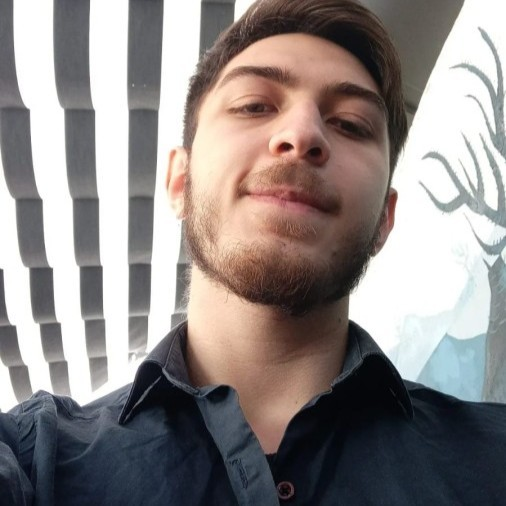
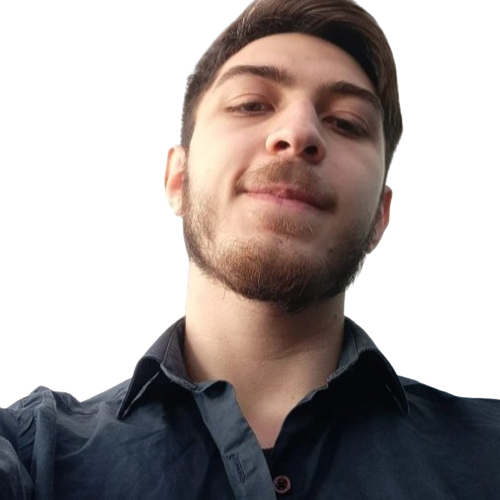
Change profile image 2

diff --git a/index.html b/index.html
@@ -93,7 +93,7 @@
                                 <path
                                     d="M40.6,-56.8C53.8,-46.3,66.4,-36,72.1,-22.5C77.8,-9,76.5,7.7,69.7,20.8C62.9,33.8,50.6,43.3,38,55C25.5,66.6,12.8,80.6,0.1,80.5C-12.6,80.4,-25.2,66.3,-38.8,54.9C-52.4,43.6,-66.9,35,-72.9,22.3C-79,9.6,-76.6,-7.3,-70.7,-22.2C-64.8,-37.1,-55.3,-50.1,-43,-60.9C-30.6,-71.6,-15.3,-80,-0.8,-79C13.7,-77.9,27.4,-67.3,40.6,-56.8Z"
                                     transform="translate(100 100)" />
-                                <image class="home__blob-img" x="15" y="30" href="./assets/img/perfil.png">
+                                <image class="home__blob-img" x="10" y="20" href="./assets/img/perfil.png">
                             </g>
 
                         </svg>
@@ -101,7 +101,7 @@
 
                     <div class="home__data">
 
-                        <h1 class="home__title">Hi, I'm Tomás1</h1>
+                        <h1 class="home__title">Hi, I'm Tomás</h1>
                         <h3 class="home__subtitle">Frontend Developer</h3>
                         <p class="home__description">
                             Welcome to my presentation!!
